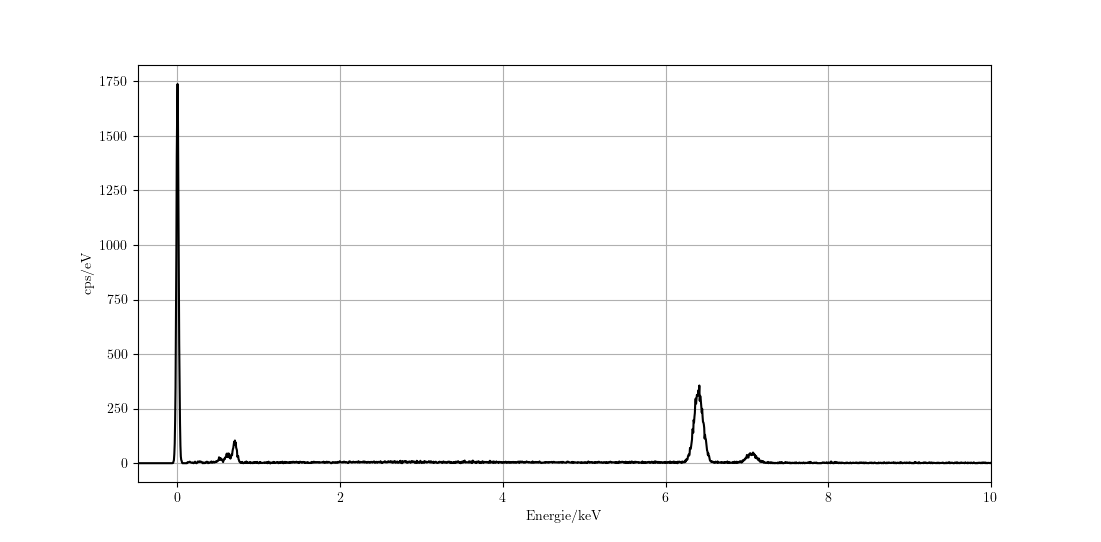
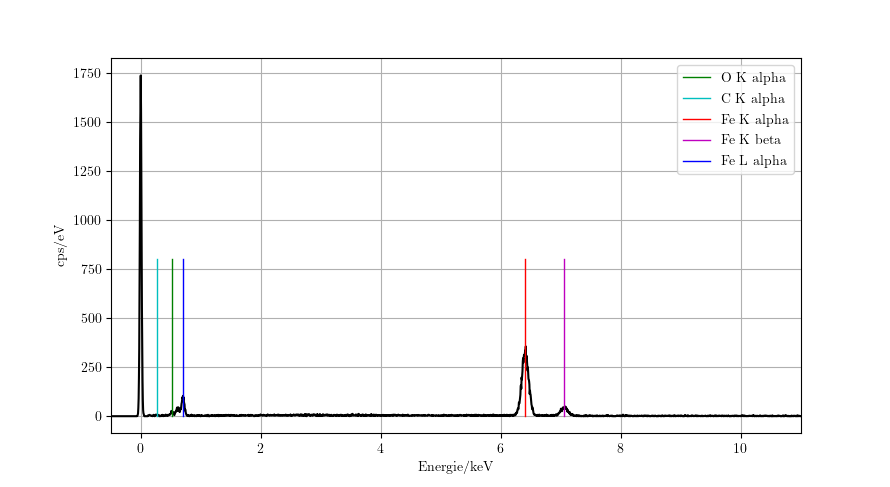
REM Update Plot

diff --git a/Versuch_REM/04-Versuchsauswertung/Plot.py b/Versuch_REM/04-Versuchsauswertung/Plot.py
@@ -20,9 +20,12 @@ datN1 = 'Versuch_REM/Daten/d/EDX/Normal1.txt'
 #Daten Aufg e)
 datE = 'Versuch_REM/Daten/e/EDX/chip.txt'
 
+#Elementmarker
+Name = ['O K alpha', 'C K alpha','Fe K alpha', 'Fe K beta', 'Fe L alpha']
+Energie = [0.5249, 0.277, 6.40384, 7.05798, 0.705]
+Farbe = ['g', 'c', 'r', 'm', 'b']
 
-
-data = datH1
+data = datALoch
 df = pd.read_csv(data, delim_whitespace=True, skiprows=24)
 
 n=5 #Alle Werte dopen, die kleiner sind als 50(?)
@@ -38,4 +41,9 @@ ax.plot(df['Energie'], df['Impulse'], color='k')
 #ax.scatter(df2['Energie'], df2['max'], c='r')
 ax.set(xlabel='Energie/keV', ylabel='cps/eV', xlim=(-0.49,11))
 ax.grid()
+
+for i in range(0,len(Energie)):
+    ax.plot([Energie[i],Energie[i]], [0,800], label=Name[i], lw=1, color=Farbe[i])
+
+plt.legend()
 plt.show()
